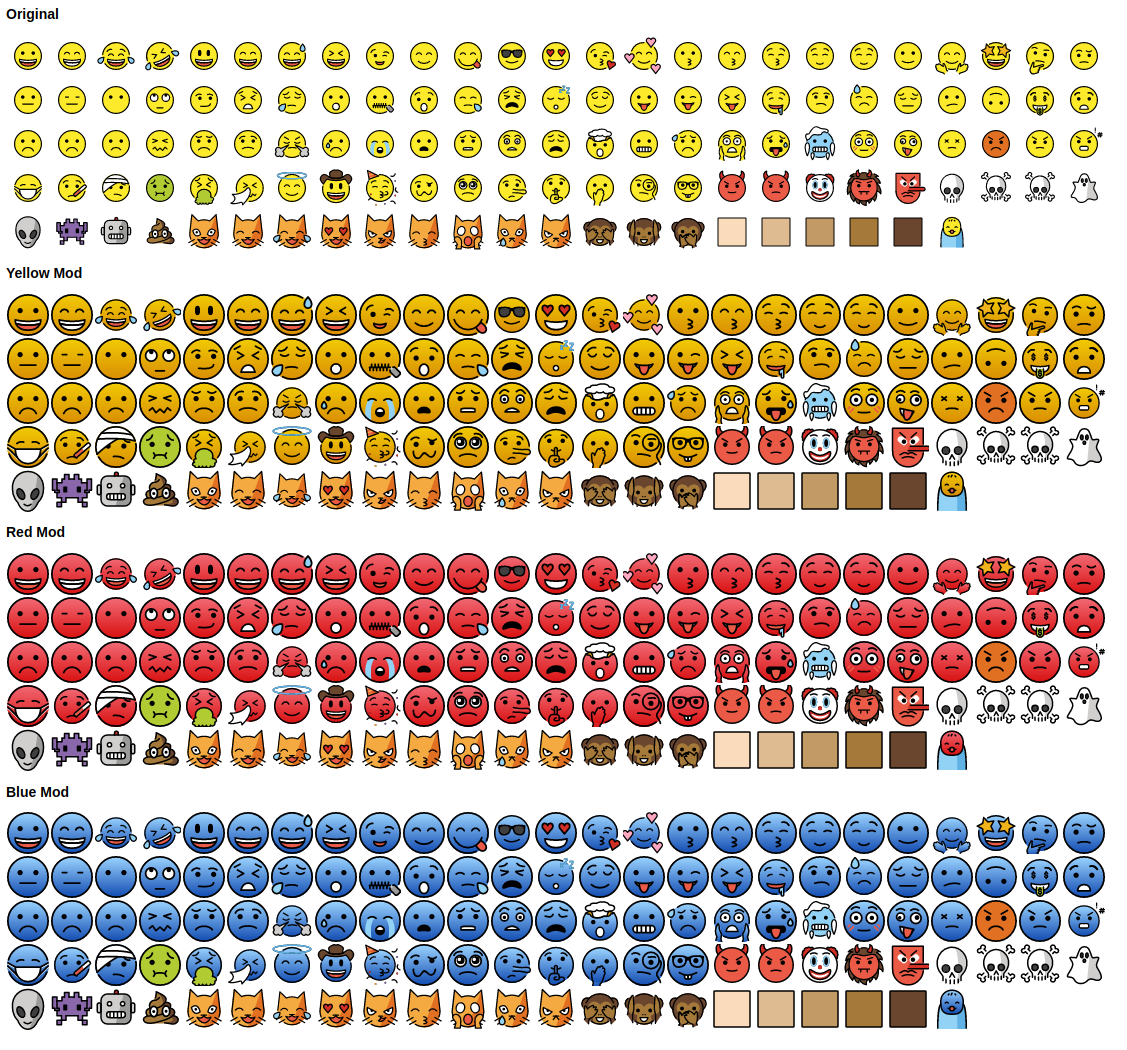
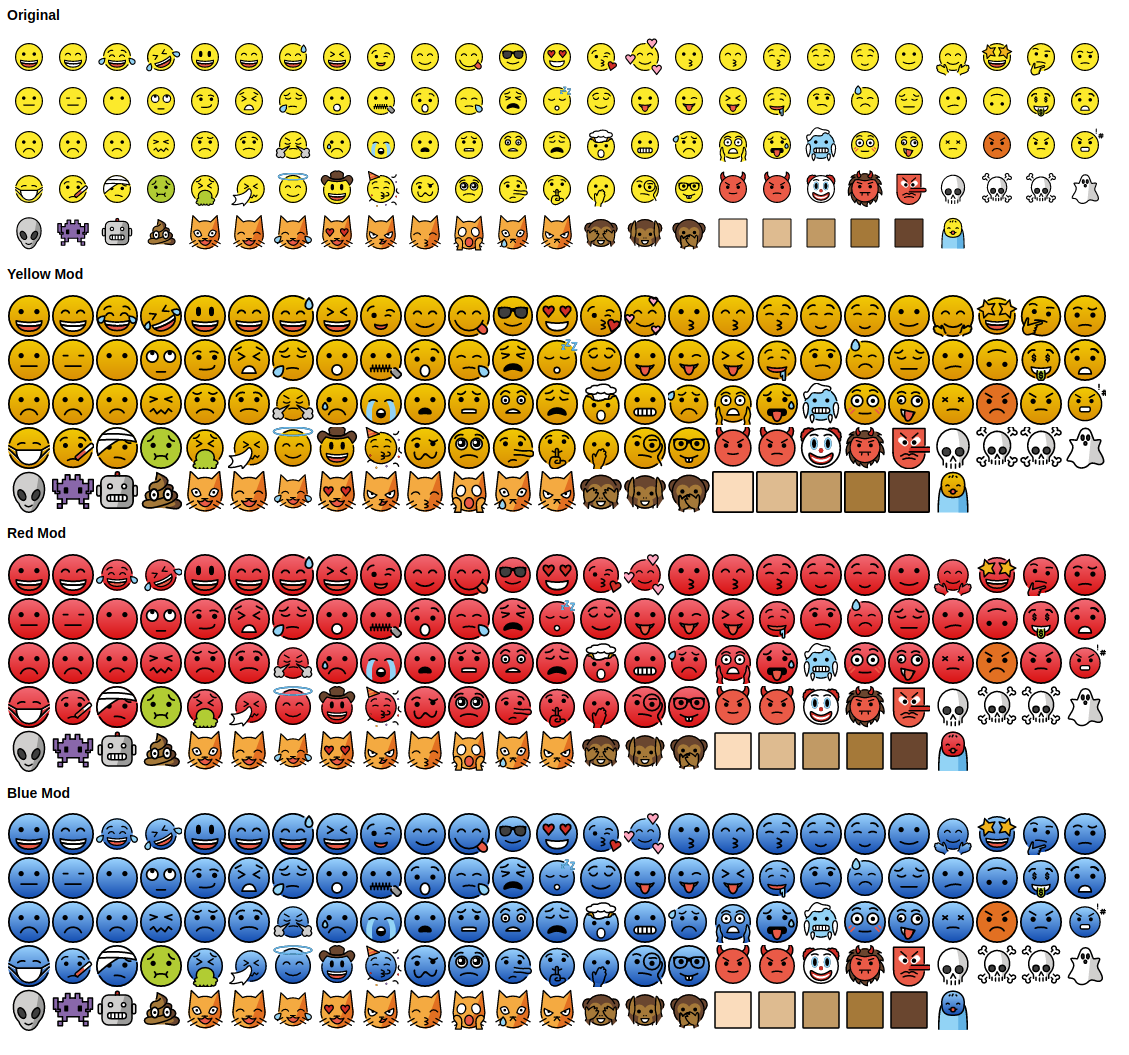
size consistency

Changed region(s): [[0.0, 0.0, 0.9938, 1.0]]

diff --git a/improve-openmoji.php b/improve-openmoji.php
@@ -35,7 +35,7 @@ function mod_openmoji($source) {
     $im->trimImage(0);
 
     // check if image can be better fitted
-    for ($i = 8*3; $i >= 8; $i -= 8) {
+    for ($i = 8*3; $i >= 8; $i -= 2) {
         if ($im->getImageWidth() <= $sourceWidth-$i && $im->getImageHeight() <= $sourceWidth-$i) {
 
             $source = str_replace('viewBox="0 0 '.$sourceWidth.' '.$sourceWidth.'"', 'viewBox="'.($i/2).' '.($i/2).' '.($sourceWidth-$i).' '.($sourceWidth-$i).'"', $source);
@@ -65,8 +65,13 @@ print "using gradient colors $color1 - $color2\n\n";
 $files = glob("svg/*.svg");
 
 foreach ($files as $file) {
-    $input_file = $files; // "svg/".$file.".svg"; - when editing selection
+    $input_file = $file; // "svg/".$file.".svg"; - when editing selection
     $output_file = "yellow/". basename($input_file);
+
+    // check override
+    if (file_exists("overrides/" . basename($input_file))) {
+        $input_file = "overrides/" . basename($input_file);
+    }
 
     print "improving " . $input_file . "\n";
 

diff --git a/README.md b/README.md
@@ -17,6 +17,17 @@ php improve-openmoji.php "#ffffff" "#dddddd"
 ## Sample output
 ![Preview](preview.png)
 
+## Size consistency
+Some smiley emojis are not same size and cannot be trimmed to the same size.
+You can find folder called `overrides` that contains modified versions that fit well with others. 
+For example
+
+| Original | Override | Modded   |
+|----------|----------|----------|
+| ![Original](svg/1F602.svg) | ![Original](overrides/1F602.svg) | ![Original](yellow/1F602.svg) |
+
+Feel free to contribute fixing other ones as well. 
+
 ## License
 ¹ OpenMoji graphics are licensed under the Creative Commons Share Alike License 4.0 ([CC BY-SA 4.0](https://creativecommons.org/licenses/by-sa/4.0/))
 
